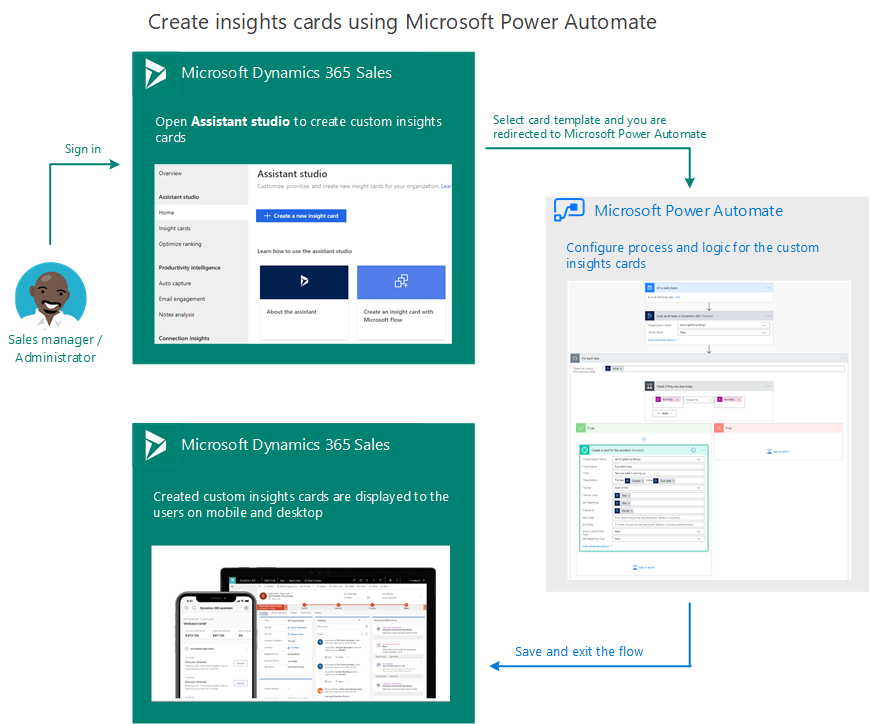
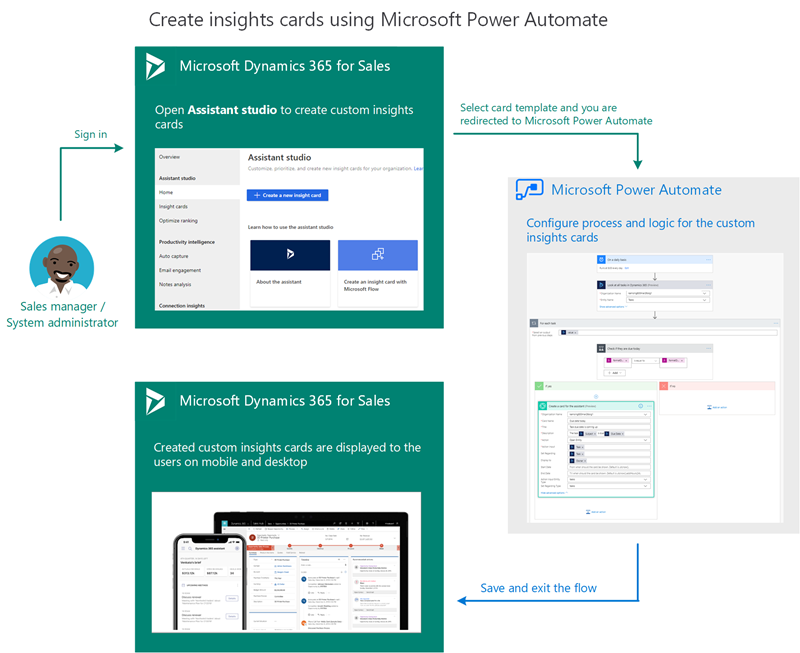
error fixed

diff --git a/ai-docs/sales/data-retention-deletion-policy.md b/ai-docs/sales/data-retention-deletion-policy.md
@@ -21,8 +21,8 @@ topic-status: Drafting
 >This feature is intended to help sales managers or supervisors enhance their team’s performance. This feature is not intended for use in making, and should not be used to make, decisions that affect the employment of an employee or group of employees, including compensation, rewards, seniority, or other rights or entitlements. Customers are solely responsible for using Dynamics 365, this feature, and any associated feature or service in compliance with all applicable laws, including laws relating to accessing individual employee analytics and monitoring, recording, and storing communications with end users. This also includes adequately notifying end users that their communications with sales persons may be monitored, recorded, or stored and, as required by applicable laws, obtaining consent from end users before using the feature with them. Customers are also encouraged to have a mechanism in place to inform their sales persons that their communications with end users may be monitored, recorded, or stored.
 
 When you configure conversation intelligence, sales call recordings of sellers are processed and analyzed to provide necessary insights such as overall customer sentiments, sentiment trends, and identify keywords that customers have used during calls. Conversation intelligence provides the following options to configure:  
--	[Provide read-only access to your data for Microsoft](#provide-read-only-access-to-your-data-for-microsoft)
--	[Retention policy](#retention-policy)  
+-	[Call recording storage](#call-recording-storage)
+-	[Data consent and privacy](#data-consent-and-privacy)  
 
 ## Open privacy settings page
 
@@ -56,6 +56,7 @@ When you configure conversation intelligence, sales call recordings of sellers a
 The **Call recording storage** section allows you to configure the data retention policy to determine how long you want to keep the analyzed call recording data in conversation intelligence by specifying a time limit. When you specify a retention time limit, the application keeps the call recording data for the specified time limit. The application deletes the data when the time limit is reached.   
 For example, retention time limit is set 30 days. At any given time, application keeps the call data from the time it's analyzed to 30 days. On the 31st day, the application deletes the analyzed call data.   
 Choose the storage option as described in the following table:     
+
 | Option | Description |
 |--------|-------------|
 | Storage for call recordings | Select an option to store your call recordings for analysis:<br><ul><li>**Microsoft provided storage**: Select this option if you want to use the storage provided by Microsoft. By default, this option is selected, and we recommend that you use this storage.</li><li>**Your own Azure storage**: Select this option if you want to use your custom Azure storage. After you select this option, enter the **Storage connection string** and **Container name**.</li></ul>More information: [Configure conversation intelligence to connect call data](configure-conversation-intelligence-call-data.md). |

diff --git a/ai-docs/sales/create-insight-cards-flow.md b/ai-docs/sales/create-insight-cards-flow.md
@@ -15,7 +15,7 @@ caps.latest.revision: 1
 
 [!INCLUDE[cc-data-platform-banner](../includes/cc-data-platform-banner.md)]
 
-As an administrator or sales manager, you can create your own suggested actions that are more relevant to your organization through the assistant management feature. By using events and conditions, you can customize the circumstances on when to create suggestions and push information into the seller’s workflow. This helps the sellers to close deals faster. The following diagram illustrates a high-level flow of insight card creation:
+As a system administrator or sales manager, you can create your own suggested actions that are more relevant to your organization through the assistant management feature. By using events and conditions, you can customize the circumstances on when to create suggestions and push information into the seller’s workflow. This helps the sellers to close deals faster. The following diagram illustrates a high-level flow of insight card creation:
 
 > [!div class="mx-imgBorder"]
 > ![Open assistant tab](media/cc-create-card.png "Open assistant tab")
